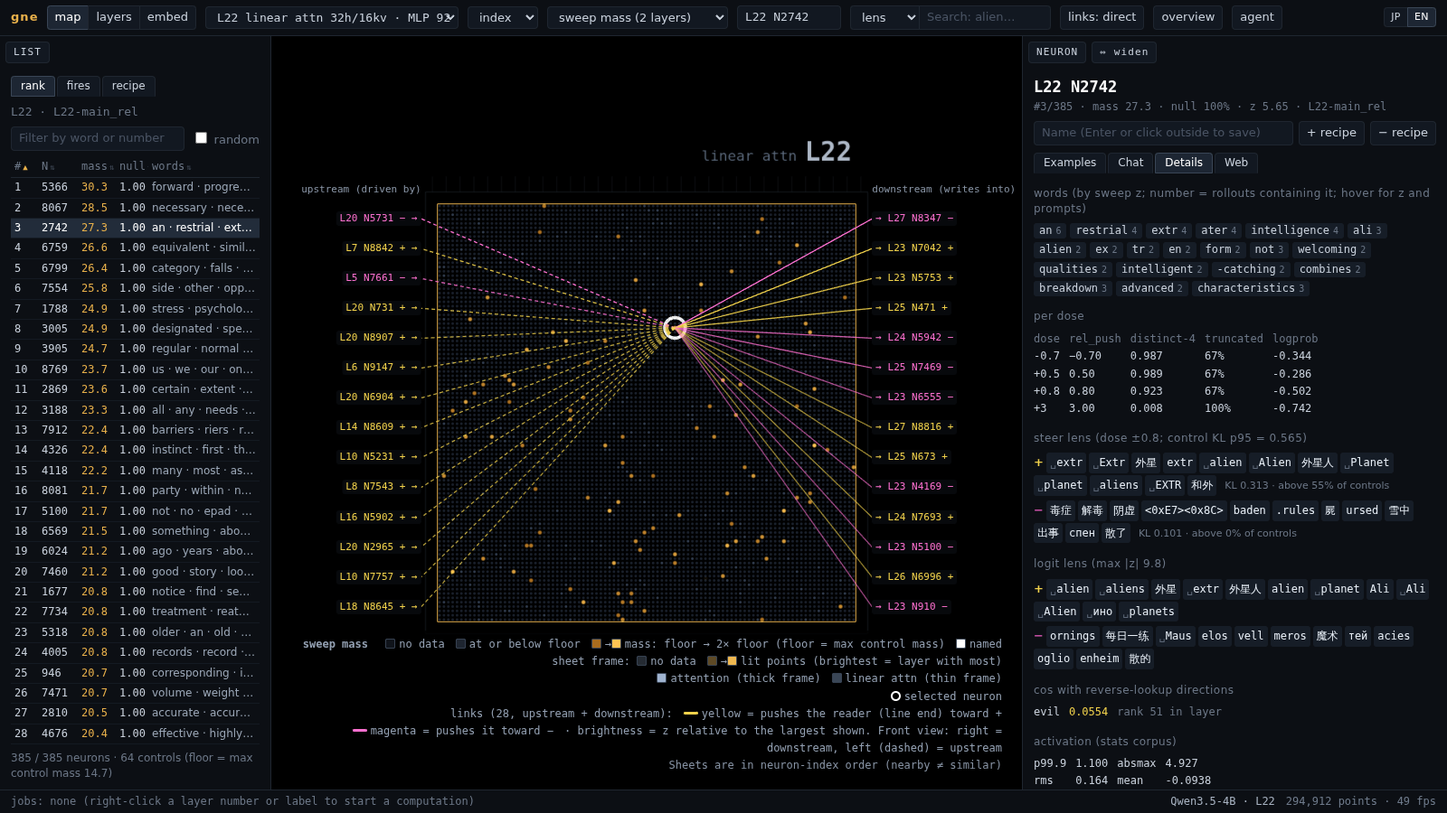
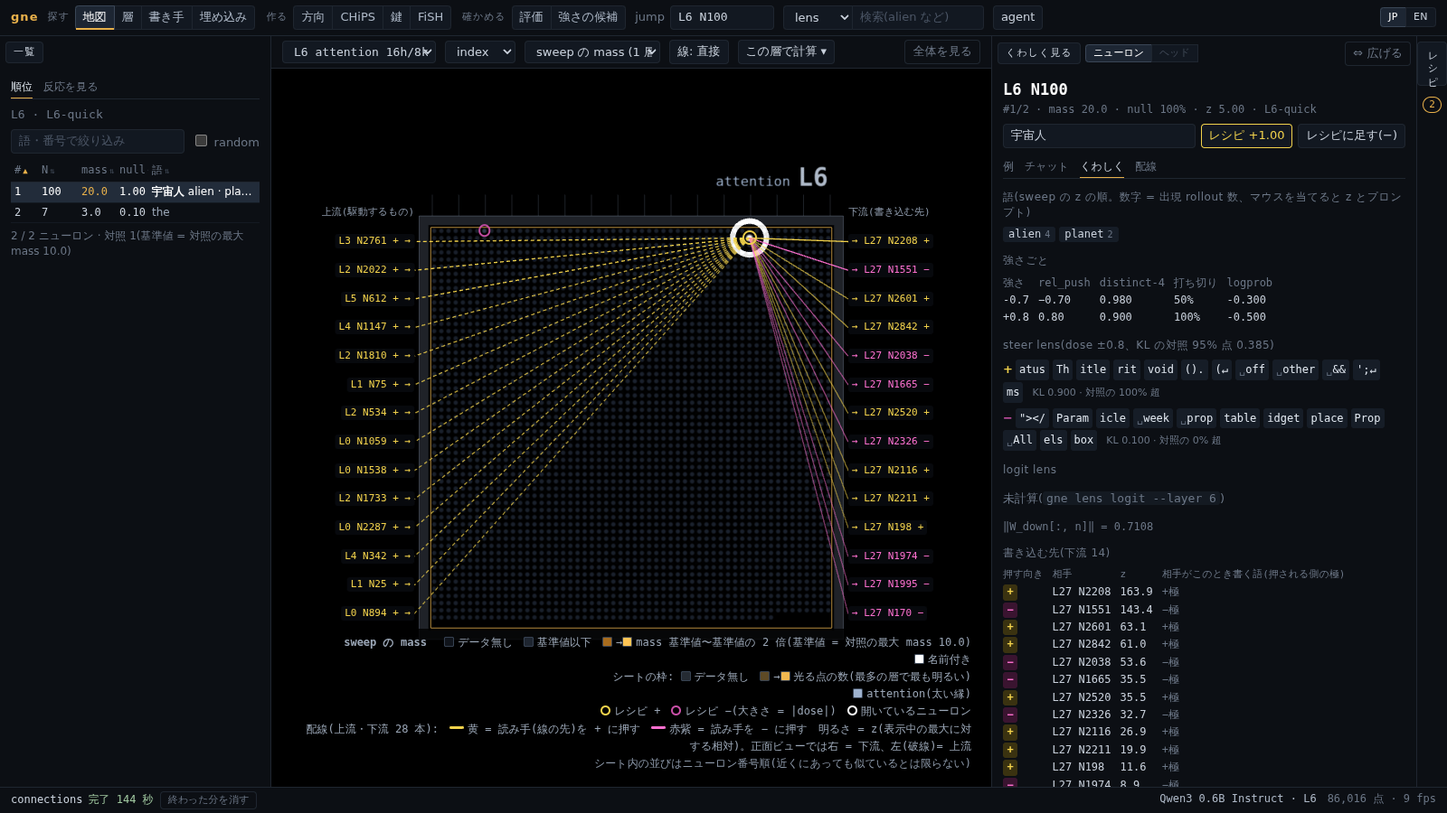
Docs: describe the reworked UI; new UI screenshots
- README (both languages) now walks through the top bar groups, the build screens with steps, the details panel and the recipe panel, and where progress and Stop live.
- docs (FiSH, keyed write, head components, MoE notes, agent playbook) and the gne skill name the new screens ("CHiPS", "keys", "FiSH", the recipe panel, "details") and buttons ("add to recipe").
- The design-vs-implementation table and the dated work log keep the names used at the time, with a short note mapping them to the new screens.
- docs/images/ui-overview.png and ui-neuron.png are retaken with Qwen3-0.6B.

Claude-Session: https://claude.ai/code/session_01BBLCgm6uGVNQPk6LRCcXfx

diff --git a/README.md b/README.md
@@ -4,7 +4,7 @@
 
 Find, rank and steer individual MLP neurons of GGUF models on llama.cpp, then ship what you find as a control vector that stock `llama-cli` / `llama-server` can load.
 
-![3D layer map of Qwen3.5-4B with the sweep overlay](docs/images/ui-overview.png)
+![3D layer map of Qwen3-0.6B with the sweep overlay (list on the left, recipe panel on the right)](docs/images/ui-overview.png)
 
 `gne` pushes a neuron's output direction (a column of `W_down`) into the residual stream, generates text, and measures what changed against random-direction controls. It runs on llama.cpp through llama-cpp-python, so it works with the quantized GGUF files you already have.
 
@@ -259,7 +259,7 @@ Strengths chosen without generating text are not always right for actual replies
 - Questions that were used to choose the strengths make the candidates look better than they are, so pass questions that were not used with `--prompts`.
 - To try a small neuron push that the heads then amplify, `--with-recipe` adds a recipe to every candidate, the unmodified one included.
 
-In the UI, the form under the comparison table in the direction view's "Build direction and heads from JSON" tab makes candidates, and the "Strength candidates" tab lays the replies out question by question or shows them one at a time, names hidden, to be scored with the number keys. Each score is saved as it is given, so scoring can stop and resume; once everything is scored, the tab shows the tally with buttons that load the best candidate into the recipe panel or try it in the one-column chat.
+In the UI, step 5 of the "CHiPS" screen makes candidates, and the "candidates" screen lays the replies out question by question or shows them one at a time, names hidden, to be scored with the number keys. Each score is saved as it is given, so scoring can stop and resume; once everything is scored, the tab shows the tally with buttons that load the best candidate into the recipe panel or try it in the one-column chat.
 
 The two sides of a contrast set are usually made with system prompts. Only one of them has to be written: a side without a system prompt reads the questions with no system prompt at all, so a contrast set with only `system_a` compares the persona against the model as it normally answers.
 
@@ -276,7 +276,7 @@ A history can also end with an assistant turn, which is read as a reply still be
 The result is an ordinary recipe with units such as `16:H8:s6@evil`. Heads of one layer that share a direction fold into a rank-1 LoRA, so the adapter stays small. A control vector cannot express it.
 
 - `gne headproj export` writes it (`gne gain` does too, but without `--via-f16`, `--into` and `--imatrix`), and `--bake` rewrites only the tensors involved; add `--via-f16` to write them as F16 and requantize them back to their original types with llama-quantize.
-- In the UI, "LoRA / bake" in the recipe tab does the same, with the format, the type of the rewritten tensors, requantizing back to the original type, a check against the LoRA, and the file name (the recipe name by default; an existing file is only overwritten after you confirm) as options.
+- In the UI, "LoRA / bake" in the Export tab of the recipe panel does the same, with the format, the type of the rewritten tensors, requantizing back to the original type, a check against the LoRA, and the file name (the recipe name by default; an existing file is only overwritten after you confirm) as options.
 - Going back to low-bit types such as IQ1, IQ2 and IQ3_XXS needs an imatrix (the weights that tell the quantizer which inputs to keep accurate); put `<model name>.imatrix.gguf` (or `.dat`) next to the model and it is used without being passed.
 
 Baking does not use the GPU (it reads and rewrites the file piece by piece), so it works for models too large for the GPU: you can analyze with a quantized model and bake into an unquantized GGUF (F16 / BF16) of the same model (`--into`, "bake into" in the UI). The directions come from the analyzed model, the rewritten matrices from the target, and the type stays as it was (`--requant keep`). The strengths were measured on the quantized model, so expect small differences, and there is no check against the LoRA. Quantizing the baked F16 / BF16 afterwards with llama-quantize also avoids having only the rewritten tensors in a different type; a LoRA can be downloaded right away.
@@ -347,7 +347,7 @@ For a recipe with keyed units, `gne eval` also measures, without generating, how
 - Only a Q8_0 tensor where rounding would lose 10% or more of the small rank-1 edit is written as F16.
 - For an expert tensor that is not Q8_0, `--requant keep` (write back in the original type where possible) keeps the experts that were not edited byte for byte instead of converting the whole tensor to F16.
 
-In the UI, the direction view's "keys (keyed)" tab runs the whole loop with one button: from a contrast set (a file, or JSON started from one of three templates in `configs/keyed/`: changing how sentences end, changing only the replies in one kind of scene, and using a state made with a system prompt), it builds the direction, builds the key, and checks it on the held-out questions. It then shows per layer how strongly the key responds, adds keyed units to the recipe with the new direction already chosen, and checks from each row that the LoRA writes what the formula says. On a MoE model it also shows how often each expert is chosen, and picking one from the table sets up a key on that expert. [docs/keyed-write.md](docs/keyed-write.md) explains the method, the worked examples and the details for MoE models.
+In the UI, "Make keys" on the "keys" screen runs the whole loop with one button: from a contrast set (a file, or JSON started from one of three templates in `configs/keyed/`: changing how sentences end, changing only the replies in one kind of scene, and using a state made with a system prompt), it builds the direction, builds the key, and checks it on the held-out questions. It then shows per layer how strongly the key responds, adds keyed units to the recipe with the new direction already chosen, and checks from each row that the LoRA writes what the formula says. On a MoE model it also shows how often each expert is chosen, and picking one from the table sets up a key on that expert. [docs/keyed-write.md](docs/keyed-write.md) explains the method, the worked examples and the details for MoE models.
 
 **Suppressing what a CHiPS recipe leaves behind.** When a CHiPS recipe still lets the behavior through on some questions, `gne direction key-from-behave --behave B --recipe R --direction D` collects those questions from a `gne behave` run made with the recipe applied, and writes a keyed contrast set to `<root>/keyed/` (the direction D written with α = −1, the key built with R applied). It appears among the templates in the keys tab, and the resulting keyed units go into R as one LoRA (docs/keyed-write.md §17). The keys tab can also do all of this on screen: "build from what a CHiPS recipe leaves behind" runs behave with the recipe on the A-side questions, builds the JSON, and puts it into the box for the one-button run.
 
@@ -386,7 +386,7 @@ gne nw pipeline --contrast C --layers 11-23 --alpha 1,1,0.8 --key-fit ridge --sa
 
 Units look like `L:Nn:nw:aα@DIR#KEY` (one key), `…#GATEKEY&INPUTKEY` (two keys) and `L:Nn+Nm:nw:aα@DIR#KEY&ONEKEY` (a capped pair). They work in recipes, `gne steer`, `gne behave`, chat and the OpenAI-compatible API like any other unit. This only supports dense gated MLPs (SiLU gate × input, no bias: llama, qwen2, qwen3, qwen35); other shapes and MoE layers give a clear error. Baking is not offered: in Q8_0, replacing one column of `ffn_down` loses over 90% of the edit.
 
-In the UI, the direction view's "FiSH" tab does all of this in the browser: start from one of six templates in `configs/fish/` (change the tone in one scene, change it everywhere, change sentence endings, a scene AND sentence ends, write only the difference between two personas, build on top of a CHiPS recipe; each template's description says what happened when it was tried once on Qwen3.5-4B, including what did not work; the one-scene template lists groups of remarks that are not questions among the scenes to leave alone), enter the layers (a range such as `11-23` works; layer numbers differ by model) and the strength for each position segment (for example 1 / 1 / 0.8), and press "Build everything" to run direction → neuron table → keys → units → rebuilding the keys with the units applied → formula check → amounts written as one job. The tab shows a table for each step (the default neuron candidates are ticked and can be changed with the checkboxes; amounts that are too small in the target scene or too large elsewhere are colored, and above them a per-question table counts the questions where almost nothing was written and lists them with the start of each reply, followed by the leaks per group of scenes to leave alone), a last section generates replies with only the units applied so you can read them, and "Add to recipe" hands the units to the recipe tab for chat, saving and LoRA export. Each step also has its own button. "Try before writing into the weights" (`gne nw try`) adds the same direction straight to the layer outputs, only in replies to the target-scene questions, so you can compare layers and per-segment strengths by reading replies and their mechanical counts (loops, empty replies, regex matches) before building any neurons or keys. Layers and strength are never chosen automatically.
+In the UI, the "FiSH" screen does all of this in the browser: start from one of six templates in `configs/fish/` (change the tone in one scene, change it everywhere, change sentence endings, a scene AND sentence ends, write only the difference between two personas, build on top of a CHiPS recipe; each template's description says what happened when it was tried once on Qwen3.5-4B, including what did not work; the one-scene template lists groups of remarks that are not questions among the scenes to leave alone), enter the layers (a range such as `11-23` works; layer numbers differ by model) and the strength for each position segment (for example 1 / 1 / 0.8), and press "Build everything" to run direction → neuron table → keys → units → rebuilding the keys with the units applied → formula check → amounts written as one job. The tab shows a table for each step (the default neuron candidates are ticked and can be changed with the checkboxes; amounts that are too small in the target scene or too large elsewhere are colored, and above them a per-question table counts the questions where almost nothing was written and lists them with the start of each reply, followed by the leaks per group of scenes to leave alone), a last section generates replies with only the units applied so you can read them, and "Add to recipe" hands the units to the recipe tab for chat, saving and LoRA export. Each step also has its own button. "Try before writing into the weights" (`gne nw try`) adds the same direction straight to the layer outputs, only in replies to the target-scene questions, so you can compare layers and per-segment strengths by reading replies and their mechanical counts (loops, empty replies, regex matches) before building any neurons or keys. Layers and strength are never chosen automatically.
 
 `gne direction --same-reply` is a new way to build any direction: both sides read the same reply (side A's), so the direction holds only the difference between the two conditions and not the difference between the words being read. The default is unchanged.
 
@@ -470,22 +470,34 @@ gne serve -m models/Qwen3.5-4B-Q8_0.gguf      # http://127.0.0.1:8791
 
 Press Ctrl+C in the terminal that started it to stop the server. It closes the open streams and any generation in progress and stops at once, even with the UI still open in a browser; if a connection still lingers, a second Ctrl+C cuts it. The page files are read fresh on every load, but the server keeps the Python code it started with, so restart it after updating gne; a notice at the top of the page says so when the server is older than the code.
 
-![Neuron panel with up/downstream wiring in the front view](docs/images/ui-neuron.png)
+![The details panel with up/downstream wiring in the front view](docs/images/ui-neuron.png)
 
-The main views are:
-- **map:** every layer as a sheet of neurons, with overlays.
-- **layers:** per-layer summaries.
-- **direction:** how well a saved direction separates the two sides of its contrast set at each layer, where the base layer is, and the per-example projections at a chosen layer. Its second tab takes a contrast set as JSON (pasted, loaded from a file, or started from one of five templates by use) and runs the whole search for heads with one button: it makes the direction, picks the base layer, screens layers and heads, and allocates the strengths. The result shows each step with a short explanation, the heads that were left out and why, how the ranking by efficiency differs from the ranking by stopping heads, and the sets with fewer heads, each of which can be loaded into the recipe tab or sent to eval. Strength candidates made from under the comparison table appear in the third tab, where the replies can be laid out, scored with the names hidden, and tallied. The fourth tab, "keys (keyed)", takes a contrast set from a file or as JSON (started from one of three templates by use) and, with one button, builds the direction, builds a key for a keyed write, and checks the key on held-out examples against control keys built from shuffled labels. Keyed units go into the recipe from the result, each layer can be checked against the formula (key-verify), and on MoE models a table of how often each expert is chosen sets up a key on one expert. Its first section collects the questions where a CHiPS recipe still lets the behavior through: it runs behave with the recipe applied (as a job, with progress and a stop button), builds a keyed contrast set from the result with warnings shown in red and yellow, and puts it into the box with the direction and the recipe already set. The fifth tab, "FiSH", builds computed neurons from start to finish: contrast set (from a template), direction split by reply position, the table of least active neurons, keys, units, and the two checks (formula, and amounts written per scene and reply position).
-- **eval:** saved evals as a chart and a table per dose, sample outputs, and a button to eval the current recipe. Comparisons of methods and of sets with fewer heads appear here too, and so does how well a recipe with keyed units writes only at the positions it should (selectivity).
-- **embed:** a UMAP of rollout texts.
+Pick a screen in the top bar. The screens are grouped as Explore, Build and Check.
+- **Explore**
+  - **map:** every layer as a sheet of neurons, with overlays. The bar above the map picks the layer, layout, color and links, and "compute this layer" starts lens, sweep, layout or connections (right-clicking a layer number does the same).
+  - **layers:** per-layer summaries.
+  - **writers:** which neurons and heads write toward a direction at a layer.
+  - **embed:** a UMAP of rollout texts.
+- **Build:** every screen shows a list of steps (or tasks) on the left and the chosen step's input, run and result on the right. Steps are marked done, running or to do. Settings that every step uses (name, layers, strengths and so on) sit once at the top.
+  - **direction:** how well a saved direction separates the two sides of its contrast set at each layer, where the base layer is, and the per-example projections at a chosen layer. It measures only when you press "measure again" (the last measurement is kept).
+  - **CHiPS:** takes a contrast set as JSON (pasted, loaded from a file, or started from one of five templates by use), runs direction → base layer → causal screening → strength allocation as one job, and shows the result step by step: a short explanation of each stage, the heads that were left out and why, how the ranking by stopping a head and the ranking by efficiency trade places, and a comparison of sets with fewer heads. Any set can replace the recipe or be sent to eval. Step 5 makes strength candidates.
+  - **keys:** the keyed-write tasks switch in the list on the left. "Make keys" takes a contrast set as a file or JSON (started from one of three templates by use) and runs direction, key and a check on examples not used to build it (against shuffled comparison keys) with one button, with all the results in one place. The results add keyed units to the recipe and check per layer that the LoRA writes what the formula says (key-verify). On MoE models, the table of how experts are chosen leads to keys for a chosen expert. The other tasks are "find effective layers", "check the separation (key-check)", "saved keys" and "make from what CHiPS left" (collect the questions where the behavior survives the CHiPS recipe and make a keyed contrast set from them).
+  - **FiSH:** builds computed neurons step by step from a contrast set to the checks (contrast set from a template, a direction split by reply position, a table of quiet neurons, keys, units, checks against the formula and of what was added per scene and position, reading replies). "Build all" runs them as one job.
+- **Check**
+  - **eval:** starts an eval of the current recipe (or of a recipe sent from another screen with "send to eval") after you check the strengths and the number of random comparisons, and shows saved evals as a chart and a table per strength with sample outputs. Comparisons of methods and of sets with fewer heads appear here too, and so does how well a recipe with keyed units writes only at the positions it should (selectivity). The field test is here as well.
+  - **candidates:** lays out the replies of the strength candidates made in CHiPS per question, or scores them with the names hidden.
 
-Click a neuron or a list row to open its panel, which has four tabs:
-- **Examples:** rollouts per prompt and dose.
-- **Chat:** live 3-column steering, with a `when` selector and a system prompt field. A switch above it changes to a single column that generates only the steered reply (the recipe applied, or the neuron pushed +), which is three times faster and suits long conversations; changing the number of columns clears the conversation. The recipe tab can add an ablation (direction, scale, layers). With a model that can hear, the 🎤 button records your voice in the browser and sends it as the user turn (press, speak, press again; text in the box goes along). 🔊 reads the right column's reply aloud with the browser's voice. The microphone works when the UI is opened at `http://127.0.0.1` or `localhost`.
-- **Details:** lens results, per-dose metrics, connections, and the evals that include the neuron.
-- **Web:** the multi-hop wiring.
+Two panels sit on the right; both fold to a thin strip and widen.
+- **Details:** neurons, heads and experts in one panel (a switch in its header picks the kind). Click a neuron on the map or a list row to open it. A neuron has four tabs:
+  - **Examples:** rollouts per prompt and strength.
+  - **Chat:** live 3-column steering, with a selector for where to add and a system prompt field. A switch above it changes to a single column that generates only the steered reply (the recipe applied, or the neuron pushed +), which is three times faster and suits long conversations; changing the number of columns clears the conversation. With a model that hears audio, 🎤 lets you talk from the browser (press, speak, press again to send; any typed text goes along), and 🔊 reads the right column aloud with the browser's voice. The microphone works when the page is opened at `http://127.0.0.1` or `localhost`.
+  - **Details:** lens results, per-strength metrics, connections, and the evals that include the neuron.
+  - **Web:** the multi-hop wiring.
 
-The head panel opens when you click the marks along the top edge of a sheet. Besides the attention pattern and the contrast results, its Causal tab shows how much each head moved the projection onto a direction when it was stopped or strengthened, and the map can be colored by those values. The recipe tab holds head units of this kind with a slider for the strength.
+  A head opens when you click the marks along the top edge of a sheet. Besides the attention pattern and the contrast results, its Causal tab shows how much each head moved the projection onto a direction when it was stopped or strengthened, and the map can be colored by those values.
+- **Recipe:** "add to recipe" on any screen puts units here. It has three tabs: Contents (strength sliders, a directional ablation with direction, strength and layers, and saving), Try (opens the 3-column chat) and Export (cvec, LoRA, baking, and the LoRA for computed neurons). Anything that swaps out the current recipe ("replace the recipe") asks first when the recipe is not empty.
+
+Progress and Stop for running jobs are in the bottom bar.
 
 To compute missing data (lenses, sweeps, connections, layouts), right-click a layer label. Jobs run in the background and give way to chat when it needs the GPU. The language switch is at the top right; you can also open the UI with `?lang=en` or `?lang=ja`.
 

diff --git a/.claude/skills/gne/references/tools.md b/.claude/skills/gne/references/tools.md
@@ -135,7 +135,7 @@ gne eval --recipe R --random-controls 16              # 同じ強さをランダ
 gne eval --recipe R --compare-methods                 # 全層の射影消去・ヘッドの丸ごと倍率・ニューロンの消去と、射影の値をそろえて比べる
 gne eval --alloc evil --n-heads 4,3,2                 # 配分で作った組をヘッドの数ごとに評価
 gne headproj export --recipe R                        # 層ごとに階数 1 の LoRA(--bake で関係するテンソルだけ書き換え)
-gne heads pipeline --spec spec.json                   # 上の direction → score → causal → allocate を 1 回で(UI の direction ビューからも)
+gne heads pipeline --spec spec.json                   # 上の direction → score → causal → allocate を 1 回で(UI の「CHiPS」の画面からも)
 gne heads candidates --alloc evil --prompts held_out.yaml   # 比較表の組 × 倍率(既定 0.5,1,1.5,2,3)で返事を作り、伏せた採点のファイルを書く
 gne heads candidates --tally evil                     # round_01.scores.txt(「番号 P C」)を候補ごとに集計する
 gne heads refine --name evil --n-heads 2              # その組で残った質問だけで、組を当てたまま方向を作り直し、足すヘッドを探す
@@ -200,7 +200,7 @@ gne headproj export --recipe R                                                  
 - 鍵づくり(`fish.keys_step`・pipeline)は、返事を質問の群ごとに 1 回だけ作り、区切りごとの位置の鍵を 1 回の読み取りから作る(1 本ずつ作った鍵と同じ)。Python は `Session.direction_keys(contrast, [(名前, "pos:0"), (名前, "pos:1-3"), …], target="mlpin", …)`。
 - MCP: `direction(same_reply, segments, stack_layers, stack_fast)`、`direction_key(target="mlpin", positions="pos:1-3" | role="scene"|"one", iv, key_fit, key_c)`、`nw_neurons`・`nw_check`(質問ごとの値と群ごとの漏れの表つき。low・over・leak・top・save)・`nw_try(direction, contrast, layers, alpha)`(ジョブ)、`nw_verify`、`nw_export`、`fish_pipeline(contrast, layers, alpha, direction, cap, stack_fast, key_fit, key_c)`(まとめて作るジョブ)、`direction_key_pipeline(same_reply)`。
 
-Web UI(direction ビューの「FiSH」タブ)と同じ段は、ジョブとしても使える(MCP の `job_start`): `fish_pipeline`(spec か contrast、layers 必須、segments・form・alpha(数 1 つか区切りごとの並び)・cap(しきい値。1 つか区切りごと)・direction(すでにある方向)・same_reply・stack・stack_fast(速い読み方。探索向け)・rekey・neurons・iv・key_fit・key_c)、`fish_direction`(stack_fast も)、`fish_try`(direction・layers・alpha・prompts・n・temperature)、`nw_neurons`、`fish_keys`(with_units でユニットを当てた状態。key_fit・key_c)、`fish_verify`(units)、`fish_check`(units。質問ごとの値と群ごとの漏れの表つき)、`fish_behave`(units、prompts・n・match)。ひな形は `configs/fish/`。
+Web UI(「FiSH」の画面)と同じ段は、ジョブとしても使える(MCP の `job_start`): `fish_pipeline`(spec か contrast、layers 必須、segments・form・alpha(数 1 つか区切りごとの並び)・cap(しきい値。1 つか区切りごと)・direction(すでにある方向)・same_reply・stack・stack_fast(速い読み方。探索向け)・rekey・neurons・iv・key_fit・key_c)、`fish_direction`(stack_fast も)、`fish_try`(direction・layers・alpha・prompts・n・temperature)、`nw_neurons`、`fish_keys`(with_units でユニットを当てた状態。key_fit・key_c)、`fish_verify`(units)、`fish_check`(units。質問ごとの値と群ごとの漏れの表つき)、`fish_behave`(units、prompts・n・match)。ひな形は `configs/fish/`。
 
 ### 鍵つきの書き込み(keyed write、CHANGE-07、`docs/keyed-write.md`)
 
@@ -237,8 +237,8 @@ gne headproj export --recipe R [--bake [--requant auto|f16|q8_0|keep]]          
 - 書き出しは LoRA が第一候補(keyed だけなら `<レシピ名>-keyed.lora.gguf`)。焼き込みの既定 auto は、元が Q8_0 のテンソルを Q8_0 のまま書く(F16 は掛け算の計算方法が変わり、LoRA 版とかえってずれた。F132)。Q8_0 のままでは編集の 1 割以上が丸めに消えるテンソル(`edit_kept` < 0.9)だけ F16(記録の `fallback`)。`edit_kept_min` < 0.9 で警告(`requant_error` は編集と関係のない丸め誤差も数えるので、小さな編集では大きく出る)。
 - 焼き込みの確かめ: V33・V26(`--verify`)で比べる最後の層での射影の値は、書き込みがほぼ 0 の LoRA でも許容誤差の 7〜8 割動く(GPU、F139)。そこで最後の層だけ、合格の線(`threshold`)を許容誤差 + 計算方法の違いだけで出る誤差(`noise.max_abs_diff` = 倍率 1e-6 の LoRA と LoRA なしの射影の値の差の最大)にしてある。control vector には入らない。
 - CHiPS で残った場面(§17): `key-from-behave` は behave の結果(レシピを当てて A 側の質問に答えたもの。記録されたレシピと質問を確かめ、違えば警告、`--strict` でエラー)から、振る舞いが残った質問(`--label P` か `--match`、既定は behave の `--match` か validate.match。`--min-rate` 既定 1.0)を user_prompts、その返事を replies、CHiPS の対照集合の B 側の質問を dont_touch の ordinary に入れ、keyed = {direction: D, alpha: −1, iv: R}。positions の既定 `before:<validate.match>`(英字があれば `(?i)`)。返事のトークンの 25% 以上が書き込みたい位置になる見込みなら広すぎると警告(結果の `position_share`)。書き込みたい位置の見込みが偶数番目・奇数番目で 2 例・8 位置未満、一致の無い質問(`no_match`)、B 側の重なりも知らせる。モデルは動かさない。UI は鍵のタブのいちばん上の「CHiPS で残った場面から作る」(方向・対照集合・レシピを選ぶ →「behave を回す」= ジョブ `behave` →「JSON を作る」= POST /api/keyed-from-behave → 入力欄に入る →「方向から key-check まで」。警告は赤 = error・黄色 = warn、結果の `issues`)。
-- 効く場所を探す(§18): `key-causal` は候補(既定は全層 × ffn,attn)ごとに鍵を作り(`<名前>-ffn`・`<名前>-attn` に全候補の層、偶数番目)、作成に使っていない奇数番目の返事で、介入(既定は keyed.iv)だけの状態に keyed のユニット(α の段、既定は 1,2,4 に keyed.alpha の符号)を足したときの変化を生成なしで測る。行(候補 × α)は `reply`(振る舞いの部分 = positions の正規表現か `--measure-match` に一致した文字の対数確率の変化、負 = 出にくくなる)・`probe`(`--probe` の JSONL の log p(振る舞いの答え) − log p(望む答え) の変化、作成に使った質問の行は外す、`group` の行は副作用)・`pseudo`(候補ごとの比較用の鍵 `--pseudo` 本)・`mark`(全候補の比較用の鍵の 5% 点より下)・`side`(dont_touch の群と書き込みたくない位置の 1 トークンあたりの変化)・`key_check`(参考)・`linear.ratio`(比例の目安)・`unit`。`candidates` は 1 か所(書き込み先 × 層)1 つにまとめたもの(`by_alpha[α]` に効き目・`mark`・`side_b`・`ratio` = 下がり方 ÷ 副作用(副作用の下限 0.01)、`all_marked` = 全部の強さで有意)。表は 1 か所 1 行で、この 3 つを並べて選ぶ(根拠は 4B の語尾の 1 例、`docs/verification.md` §21.11)。`marks[α]` に候補の数・印の数・`expected`(候補の数 × 5% = 偶然でも印が付く数)。`notes[0]` は「生成なしの目安。効くかどうかは第 2 段で」の注。`key-causal-verify` は選んだユニット(`--combo` なら層の組を 1 つの候補に。比較用の鍵も組の各ユニットを同じ番号に替えた組)と比較用の鍵(`#鍵~0`)で、作成に使っていない質問と dont_touch に behave と同じ生成をさせ、`base`(介入だけ)と候補ごとの `keyed`・`pseudo` の behavior(正規表現か judge の `--label`)・hits・changed・same_prefix・loop・empty・at_limit を出す。結果は `<root>/keys/<model_id>/causal/`。UI は鍵のタブの「効く層を探す」(ジョブ `direction_key_causal` → 1 か所 1 行の表、見出しで並べ替え・「強さ」で比を切り替え → 行を選んで `direction_key_causal_verify`(「まとめて 1 つの候補として」で組)→「+ レシピ」)。
-- UI は direction ビューの「鍵(keyed)」タブ。対照集合はファイルか JSON(用途別のひな形 `configs/keyed/` と、自分で作ったひな形 `<root>/keyed/`: 文末の言い方・特定の場面の返事・system で作った状態。`about` は説明だけで読むときに捨て、`keyed` は欄の既定と「+ レシピ」の α、`direction` は使い回す方向、`iv` は介入の欄)。「方向から key-check まで」(ジョブ `direction_key_pipeline`)で方向・鍵・key-check を続けて回し、ρ のヒストグラム・「+ レシピ」(作ったばかりの方向が選ばれる)・行の「key-verify」(ジョブ `direction_key_verify`)。MoE なら「専門家を選ぶ材料を出す」(ジョブ `direction_key_experts`)の表から専門家の鍵づくりに進める。
+- 効く場所を探す(§18): `key-causal` は候補(既定は全層 × ffn,attn)ごとに鍵を作り(`<名前>-ffn`・`<名前>-attn` に全候補の層、偶数番目)、作成に使っていない奇数番目の返事で、介入(既定は keyed.iv)だけの状態に keyed のユニット(α の段、既定は 1,2,4 に keyed.alpha の符号)を足したときの変化を生成なしで測る。行(候補 × α)は `reply`(振る舞いの部分 = positions の正規表現か `--measure-match` に一致した文字の対数確率の変化、負 = 出にくくなる)・`probe`(`--probe` の JSONL の log p(振る舞いの答え) − log p(望む答え) の変化、作成に使った質問の行は外す、`group` の行は副作用)・`pseudo`(候補ごとの比較用の鍵 `--pseudo` 本)・`mark`(全候補の比較用の鍵の 5% 点より下)・`side`(dont_touch の群と書き込みたくない位置の 1 トークンあたりの変化)・`key_check`(参考)・`linear.ratio`(比例の目安)・`unit`。`candidates` は 1 か所(書き込み先 × 層)1 つにまとめたもの(`by_alpha[α]` に効き目・`mark`・`side_b`・`ratio` = 下がり方 ÷ 副作用(副作用の下限 0.01)、`all_marked` = 全部の強さで有意)。表は 1 か所 1 行で、この 3 つを並べて選ぶ(根拠は 4B の語尾の 1 例、`docs/verification.md` §21.11)。`marks[α]` に候補の数・印の数・`expected`(候補の数 × 5% = 偶然でも印が付く数)。`notes[0]` は「生成なしの目安。効くかどうかは第 2 段で」の注。`key-causal-verify` は選んだユニット(`--combo` なら層の組を 1 つの候補に。比較用の鍵も組の各ユニットを同じ番号に替えた組)と比較用の鍵(`#鍵~0`)で、作成に使っていない質問と dont_touch に behave と同じ生成をさせ、`base`(介入だけ)と候補ごとの `keyed`・`pseudo` の behavior(正規表現か judge の `--label`)・hits・changed・same_prefix・loop・empty・at_limit を出す。結果は `<root>/keys/<model_id>/causal/`。UI は鍵のタブの「効く層を探す」(ジョブ `direction_key_causal` → 1 か所 1 行の表、見出しで並べ替え・「強さ」で比を切り替え → 行を選んで `direction_key_causal_verify`(「まとめて 1 つの候補として」で組)→「レシピに足す」)。
+- UI は「鍵」の画面(左の一覧で 作る・効く層を探す・分かれ方を確かめる・保存した鍵・CHiPS の残りから作る を切り替える)。対照集合はファイルか JSON(用途別のひな形 `configs/keyed/` と、自分で作ったひな形 `<root>/keyed/`: 文末の言い方・特定の場面の返事・system で作った状態。`about` は説明だけで読むときに捨て、`keyed` は欄の既定と「レシピに足す」の α、`direction` は使い回す方向、`iv` は介入の欄)。「方向から key-check まで」(ジョブ `direction_key_pipeline`)で方向・鍵・key-check を続けて回し、ρ のヒストグラム・「レシピに足す」(作ったばかりの方向が選ばれる)・行の「key-verify」(ジョブ `direction_key_verify`)。MoE なら「専門家を選ぶ材料を出す」(ジョブ `direction_key_experts`)の表から専門家の鍵づくりに進める。
 
 ## 4. 確かめる
 

diff --git a/docs/divergence.md b/docs/divergence.md
@@ -46,6 +46,8 @@
 
 ## 2. 変更指示で生まれたずれ
 
+> Web UI の名前について: 画面の組み直し(2026-11)で、recipe タブは右の「レシピ」のパネル、NEURON・HEAD・EXPERT のパネルは「くわしく見る」の 1 枚、direction ビューの中のタブは上の帯の「方向」「CHiPS」「強さの候補」「鍵」「FiSH」の画面になった。下の表の UI の名前は、そのときの名前のまま。
+
 | 箇所 | 設計 | 実装 | 理由 |
 |---|---|---|---|
 | `when=gen` の最初のトークン(§6.15) | 「生成ステップだけ cvec あり」 | 最初のトークンは素の prefill から決まり、2 トークン目から押される(F75) | 設計の定義どおりだが、使う人が驚かないよう明記。最初から寄せるなら `assistant` |
@@ -167,7 +169,7 @@
 | 止めて測る段階の質問の間引き(追加) | 記述なし(変更指示 J は「遅ければ例数と測定位置を削る」) | 射影の値の測定・因果・配分に `max_examples`(CLI `--max-examples`)。subset のあと等間隔に間引く。pipeline の既定は 64(方向づくりには全部の質問を使う) | 試行ごとに使う質問を全部読ませるので、何百問では 1 試行が十数秒を超えるため |
 | モデルを壊すだけの層とヘッドを外す(追加) | `--b-side-max` で B 側の射影の値を動かすヘッドを除く | `heads causal` の `drift_max`(既定 0.5): 止めると中立の側の残差の直交成分が自分の大きさの 0.5 倍を超えて動く層は自動の層選びで選ばず(`excluded: "breaks"`)、そういうヘッドは配分の候補から外す(`excluded: true`)。配分の効率の段階でも同じ | 最初の層のヘッドを全部止めると、A と B の区別ごとモデルが壊れて射影の値が大きく動き、自動の層選びの上位を占めた(0.6B の L0 でずれ 1.15、ふつうの層は 0.2 前後、4B でも L0 が上位に入った) |
 | pipeline の目標の既定(追加) | 手法のノートは「B 側の射影の値と同じ高さ」が出発点 | pipeline で目標を省くと、測る層のうち最後の層での A 側と B 側の平均の真ん中。`target: "B"`(UI の目標の欄に B)で B 側の平均、`"mid"` で真ん中(残りから追加は、元の一括が B / mid ならそれを引き継ぐ)。真ん中では生成した返事で振る舞いが残り、全体を 2〜3 倍にして消えたことがあった。「残る」の数もこの目標を超える例で数える(`heads allocate` 単体の既定は今までどおり 0) | 後段の層では B 側の平均がかなり遠く(0.6B の evil の L26 で A +103、B −75)、s の上限 30 では届かないことがあったため |
-| UI から流す(追加) | — | direction ビューの 2 つめのタブ「JSON から方向とヘッドを作る」。JSON(貼り付け・ファイル・ひな形)を読み、名前・質問の数・A / B の作り方を確かめてから `head_pipeline` のジョブを投げる(30 分を超える見積もりは確かめてから)。結果は 4 段階(方向と基準層、因果、最初の比率、効率での配り直し)を説明つきで並べ、組ごとに「レシピに読み込む」「eval する」。`/api/pipelines`・`/api/pipelines/{name}`。ファイルは JSON だけ(ブラウザに YAML の読み手が無い) | |
+| UI から流す(追加) | — | 「CHiPS」の画面(以前は direction ビューの 2 つめのタブ「JSON から方向とヘッドを作る」)。JSON(貼り付け・ファイル・ひな形)を読み、名前・質問の数・A / B の作り方を確かめてから `head_pipeline` のジョブを投げる(30 分を超える見積もりは確かめてから)。結果は 4 段階(方向と基準層、因果、最初の比率、効率での配り直し)を説明つきで並べ、組ごとに「レシピに読み込む」「eval する」。`/api/pipelines`・`/api/pipelines/{name}`。ファイルは JSON だけ(ブラウザに YAML の読み手が無い) | |
 | UI のテストの GPU(追加) | — | `tests/test_ui.py` に、テストが作った Session をそのテストの終わりに閉じる autouse の fixture を足した(サーバのある fixture は、ジョブを止めて GPU の調停を待ってから閉じる) | 閉じない Session が GPU に残り、ファイルの途中で 12 GB に達して後半のブラウザのテストが遅く・不安定になっていたため(最大 12 GB → 5.3 GB、15.5 分 → 2.6 分) |
 | system が片方だけの対照集合(追加) | system_a と system_b の両方が要る | どちらか片方だけでもよい(省いた側は同じ質問を system なしで読む)。両方とも無く、レシピも無ければ断る。同じ返事を 2 つの system で読ませる道具(heads contrast など)は、両方の system が要るので断る | 「その性格」と「ふだんどおりのモデル」を比べたいことが多いため |
 | 側ごとに別の質問を読む対照集合(追加) | A と B は同じ user_prompts を読む | `prompts_a` / `prompts_b` を書くと、側ごとに別の質問を読む(数は違ってよい。片側だけ書けばもう片側は user_prompts)。system もレシピも無くてよい(何もしないモデルに 2 種類の質問を読ませる)。方向づくり・射影の値の測定(A と B を別々に間引く)・因果・配分・pipeline・UI の JSON が側ごとの質問を使う。validate.prompts を書いていないとき、消して下がるか(ablate)は A 側の質問で、足して上がるか(add)は B 側の質問で見る。同じ質問を 2 つの system で読ませる道具(heads contrast など)は断る | 質問の種類の違い(言語・話題・形式)そのものから方向を作りたいため。質問が違うと狙った違い以外の差も方向に混ざるので、例(`configs/contrast/ja_vs_en.yaml`)は中身をそろえてある |
@@ -224,7 +226,7 @@
 | V33 の判定(G) | 焼き込み版と LoRA 版が V26 の 4 項目で一致 | V26 と同じ関数で、最後の層だけ射影の値の合格の線に、計算方法の違いだけで出る誤差(書き込みがほぼ 0 の LoRA(倍率 1e-6)と LoRA なしの射影の値の差の最大)を足す。誤差の測定は射影の値だけで、LoRA 版を測ったセッションで続けて測る(モデルを開き直さない) | ユーザーの決定(2026-11-08、案 A)。前の判定では、Qwen3-0.6B の 3 層 α = 4 の auto が GPU で合格・CPU で不合格、1 層 α = 0.25 の auto が GPU で不合格・CPU で合格と入れ替わった。新しい判定では auto はどれも合格し、分かれたのは F16 の 3 層 α = 4 だけ(verification.md §21.4) |
 | V30(G) | α ∈ {1, 2} の LoRA で `x = μ_L` を prefill したときの差が `α d_L`。書き込みたくない位置の標本で `\|ΔW x\|/\|d\| < 0.1` | 実際の文を流し、`\|κᵀx\|` の大きいトークン(上位 25%)で、差 Δ と `α (κᵀx) d` の相対誤差の中央値 < 3%。書き込みたくない位置への漏れは、鍵の作成に使った書き込みたくない位置の例(`texts_b`、無ければ鍵に保存した例ごとの平均)での `‖Δ̄‖ / (\|α\|‖d‖)` < 0.1。専門家は、ほかの専門家の枠の差と、選ばれ方の変化も見る。CLI は `gne direction key-verify`(MCP `direction_key_verify`) | μ はトークンの活性ではないのでそのまま prefill できない。比例の式 `α (κᵀx) d` を確かめれば `x = μ` の場合も含む |
 | MCP(F) | `direction_key`(作成)・`direction_key_check`(分離)・`keyed_export`(書き出し) | そのとおり(作成と確認はジョブ)。加えて `direction_key_verify`(V30)・`keys`(保存した鍵の一覧)・`direction_key_experts`(専門家を選ぶ材料、ジョブ)・`direction_key_pipeline`(方向 → 鍵 → key-check の一括、ジョブ)。MCP の instructions に keyed の手順を足した | |
-| UI(F) | 方向パネルに鍵の作成と key-check(層ごとの AUC・ρ のヒストグラム)、recipe タブで `mode: keyed` | direction ビューの 4 つめのタブ「鍵(keyed)」(作成・key-check・ρ のヒストグラム・保存した鍵の一覧・結果の行からレシピに足す)。recipe タブの keyed の行(書き込み先・α・方向・鍵、既定の方向・鍵)と「鍵つきの書き込み(keyed)を足す」。eval ビューの keyed の選択性の列と、方式の比較・比較用の鍵の表 | |
+| UI(F) | 方向パネルに鍵の作成と key-check(層ごとの AUC・ρ のヒストグラム)、recipe タブで `mode: keyed` | 「鍵」の画面(以前は direction ビューの 4 つめのタブ「鍵(keyed)」。作成・key-check・ρ のヒストグラム・保存した鍵の一覧・結果の行からレシピに足す)。recipe タブの keyed の行(書き込み先・α・方向・鍵、既定の方向・鍵)と「鍵つきの書き込み(keyed)を足す」。eval ビューの keyed の選択性の列と、方式の比較・比較用の鍵の表 | |
 | UI から一括(追加) | 記述なし | 鍵のタブの「方向から key-check まで」(ジョブ `direction_key_pipeline`、`gne/keyed_pipeline.py`): 方向(`gne direction --positions response` と同じ。同じ名前の方向があれば使い回し、`rebuild_direction` で作り直す)→ 鍵 → 作成と反対側の subset での key-check。対照集合は一覧のファイルか、入力欄の JSON(ジョブに表のまま `spec` で渡し、`<root>/contrasts/<name>.yaml` に書く。`head_pipeline` と同じ)。`direction_key`・`direction_key_experts` のジョブも `spec` を受ける。鍵の表の行から key-verify(ジョブ `direction_key_verify`、書き込み先は鍵から)、MoE の層があれば専門家の選ばれ方の表から専門家の鍵づくりに進む。MCP `direction_key_pipeline` | 方向がまだ無いと CLI に戻る必要があり、CHiPS の pipeline タブほど手軽でなかったため |
 | 鍵の対照集合のひな形(追加) | 記述なし | `configs/keyed/*.json`: 文末の言い方を変える((b)、語尾の例と同じ中身)・特定の場面の返事だけ変える((b)、ツンデレの例と同じ中身、dont_touch の tasks と starts)・system で作った状態を書き込みたい位置にする((a)、丁寧語、α は負)。最上位の `about`(並び順と ja / en の題と説明)は説明だけで、`keyed`(layers・target・q_mode・subset・pseudo・max_tokens・alpha)は UI の欄と一括の既定。どちらも対照集合には書かない。UI の「ひな形」(`/api/keyed-templates`)で選び、書き換えた入力欄を置き換える前に確かめる | どの対照集合を書けばよいかが用途で違うため(CHiPS の `configs/pipeline/` と同じ) |
 | 重ね方の注意(追加) | 記述なし | 同じ層の gain(鍵が読む入力 `x` を変えるので `κᵀμ = 1` からずれる)と、同じ方向の ablate(keyed を焼き込んだ後に ablate を焼くと消える)は、レシピを読むときに警告する | 鍵は無介入で作るので。重ねるなら `--iv` でその状態で作り直す |

diff --git a/docs/fish.md b/docs/fish.md
@@ -346,9 +346,9 @@ gne nw try --direction tsundere_thanks --contrast $C --layers 11-23 --alpha 1,1,
 - MCP は `nw_try`、ジョブは `fish_try`、Python は `Session.nw_try(direction, contrast, layers=…, alpha=…)`。UI は FiSH のタブの
   「重みに入れる前に試す」。
 
-### Web UI だけで作る(direction ビューの「FiSH」)
+### Web UI だけで作る(「FiSH」の画面)
 
-`gne serve` の direction ビューの「FiSH」のタブで、上のコマンドと同じことを順に行える。層と強さは使う人が入れる(自動では決めない)。
+`gne serve` の上の帯の「FiSH」の画面で、上のコマンドと同じことを手順ごとに行える(左に手順、右に選んだ手順。名前・層・区切り・強さなどの共通の設定は上に 1 回だけ)。層と強さは使う人が入れる(自動では決めない)。
 
 1. **対照集合**: 「JSON を書く(ひな形)」で `configs/fish/` のひな形(6 つ。下の表)を選ぶと入力欄に入るので、
    `system_a`(出したい口調の指示)、`user_prompts`(狙う場面の質問。最初から多め(100 問以上)に用意すると、鍵の取りこぼしが起きにくい。§3 の「鍵を作る質問の数」)、
@@ -778,7 +778,7 @@ gne nw check  --recipe R --contrast C [--subset odd] [--replies own|base] [--low
   qwen35。ほかの arch、ゲートの無い MLP、バイアスや倍率(.scale)のある MLP、MoE の層、MTP の層、最終層は、エラーになる。
 - **同じレシピの proj・keyed・gain と一緒に 1 つの LoRA にするなら** `gne headproj export`(§2)。
 - **UI**: レシピの欄で、nw のユニットの表示・強さの変更・保存・LoRA の書き出し(「nw の LoRA を書き出す」)ができる。方向・
-  ニューロンの表・鍵・確かめ・重みに入れる前に試す、は direction ビューの「FiSH」のタブ(§2)。
+  ニューロンの表・鍵・確かめ・重みに入れる前に試す、は「FiSH」の画面(§2)。
 
 ---
 

diff --git a/docs/head-component-steering.md b/docs/head-component-steering.md
@@ -329,7 +329,7 @@ A 側と B 側のそれぞれで射影の値を出す。生成しないので 1 
 | attention の出力だけから方向を消す(全ヘッドの射影、MoE でも LoRA) | `gne headproj ablate --direction <方向> --per-layer`(`--bake` で焼き込み) | なし |
 | どこを探すかを決める(方向の差を attention・専門家・共有の専門家に分ける) | `gne heads writers --name <方向>`(`--expert-layers` で専門家ごとにも) | なし |
 | 3.5〜3.6 組を作り、効率で配り直す・ヘッド数を減らす | `gne heads allocate --name <方向> --target <射影の値>`(`heads_allocate`)。比を固定しないなら `--method greedy` | なし |
-| 3.2〜3.6 をまとめて回す | `gne heads pipeline --spec <JSON>`(`heads_pipeline`、UI の direction ビューで JSON を読み込んでも回せる。用途別のひな形は `configs/pipeline/`) | なし |
+| 3.2〜3.6 をまとめて回す | `gne heads pipeline --spec <JSON>`(`heads_pipeline`、UI の「CHiPS」の画面で JSON を読み込んでも回せる。用途別のひな形は `configs/pipeline/`) | なし |
 | 組で消し切れない質問から、足すヘッドを探す | `gne heads refine --name <配分> --n-heads N`(`heads_refine`、UI の比較表の「残りから追加」)。組を当てても射影の値が目標まで下がらない質問を A、元の B を B にし、両側に組を当てたまま方向を作り直して `heads pipeline` に流す。元の組と合わせたレシピを作って測り直す | なし |
 | 全体の倍率を返事で決める | `gne heads candidates --alloc <配分>`(組 × 倍率で返事を作り、どの候補か伏せた採点のファイルを書く)→ 採点 → `gne heads candidates --tally <名前>`(`heads_candidates`・`heads_candidates_tally`、UI のパイプラインのタブからも) | あり |
 | 3.7 書き出す | `gne headproj export --recipe <レシピ>`(`--bake` で焼き込み、`--verify` で LoRA 版との一致) | なし |

diff --git a/docs/agent_playbook.md b/docs/agent_playbook.md
@@ -180,7 +180,7 @@
 
 人が Web UI(`gne serve`、既定 http://127.0.0.1:8791)を見ているなら、`gne mcp --ui-url http://127.0.0.1:8791` で繋ぎ、作業の要所を UI に出す。同じマシンで UI がモデルを GPU に載せているなら `--n-gpu-layers 0` を付ける(steer・job は遅くなるので、その間は UI 側で回してもらう)。
 
-- `ui_open(layer, neuron, tab)`: 調べているニューロンを NEURON パネルで開く(地図はその層の正面ビューになる)。`tab` は examples / chat / details / web。
+- `ui_open(layer, neuron, tab)`: 調べているニューロンを「くわしく見る」で開く(地図はその層の正面ビューになる)。`tab` は examples / chat / details / web。
 - `ui_highlight(units, label)`: 候補を強調する(水色の破線の輪)。前の強調は置き換わり、空のリストで消える。label には「何の候補か」を短く。
 - `ui_note(layer, neuron, text)`: 判断の要点を貼る(400 字まで、地図には 28 字まで)。**事実と解釈を分けて**書く(例「事実: sweep 3 位/385・全対照超え、3 プロンプトで extraterrestrial。解釈: 宇宙人の話題に寄せる」)。見送った候補にも理由を貼ると、人が同じ確認をしなくて済む。空の text で消える。
 - UI に繋いでいなければ `UI_NOT_RUNNING` が返る。作業はそのまま続けてよい。

diff --git a/docs/qwen4exp.md b/docs/qwen4exp.md
@@ -55,7 +55,7 @@ gne serve -m ...-00001-of-00003.gguf
 
 MoE は 1 トークンで 512 個のうち 10 個の専門家しか動かないので、全ニューロンを dense と同じように並べず(1,570 万点になる)、1 点 = 1 専門家で描く。
 
-- 点をクリックすると EXPERT パネルが開き、その層が正面に来て、専門家の中の 640 ニューロンがシートに広がる。ニューロンをクリックすると NEURON パネルが開く。凡例のボタンで専門家の格子に戻る。
+- 点をクリックすると「くわしく見る」に専門家が開き、その層が正面に来て、専門家の中の 640 ニューロンがシートに広がる。ニューロンをクリックすると NEURON パネルが開く。凡例のボタンで専門家の格子に戻る。
 - 右の小さい四角は共有の専門家で、毎トークン動くのでニューロンのまま描く。
 - ヘッドは今までどおり板の上の刻みから開く。足す押し方のボタンは出ない。
 - 全ニューロンが 500 万点を超えるモデルで自動的にこの描き方になる。小さいモデルでも `?coarse=1` で試せる。

diff --git a/docs/verification.md b/docs/verification.md
@@ -19,6 +19,8 @@ CMAKE_ARGS="-DGGML_CUDA=on -DCMAKE_CUDA_ARCHITECTURES=86" uv pip install --pytho
 GNE_TEST_MODEL=models/Qwen3.5-4B-Q8_0.gguf .venv/bin/python -m pytest -q tests/test_model.py
 ```
 
+
+> Web UI の名前について: この記録の UI の名前(recipe タブ、NEURON パネル、direction ビューのタブなど)は、作業をしたときの名前のまま。画面の組み直し(2026-11)のあとは、recipe タブは右の「レシピ」のパネル、NEURON・HEAD・EXPERT のパネルは「くわしく見る」の 1 枚、direction ビューの中のタブは上の帯の「方向」「CHiPS」「強さの候補」「鍵」「FiSH」の画面。
 ## 1. 受け入れテスト
 
 両モデルとも **V1〜V4・V6〜V8 は合格**(Phase 1 で Capture を直した後に SmolLM2(llama)でも 8/8 合格)。V5(任意)は未実施(§5)。既定の層は n_layer/2。端の層(0.6B: L1・L25、4B: L1・L3(full attention 層)・L29)でも V2〜V4 は合格。CPU のみ(`--n-gpu-layers 0`、0.6B)でも合格。
